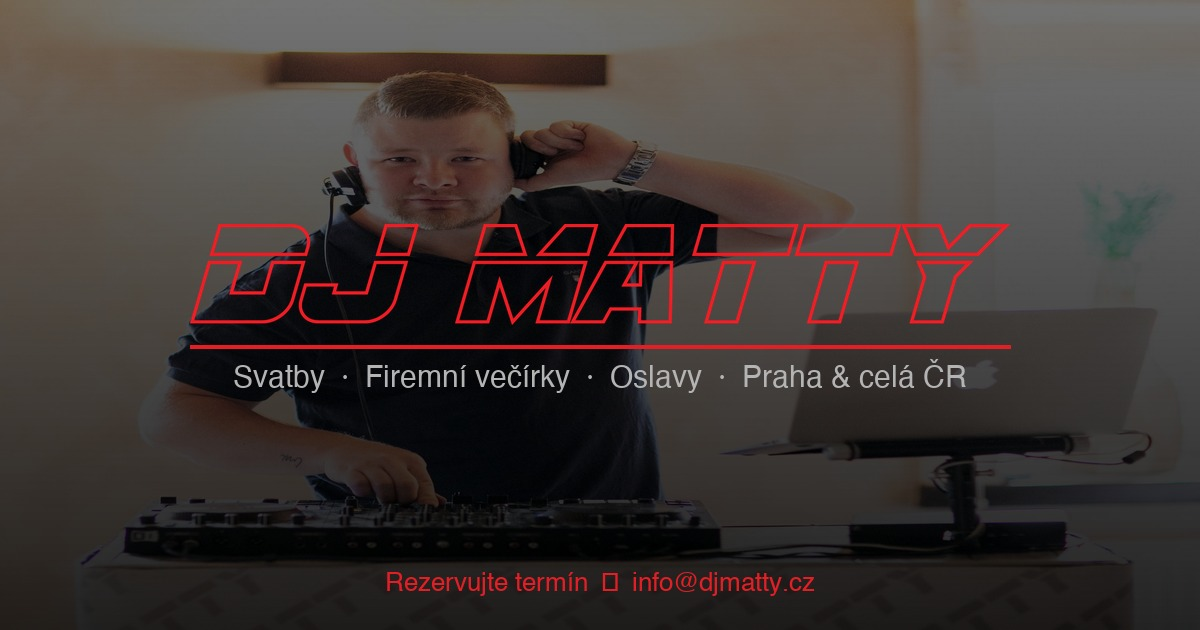
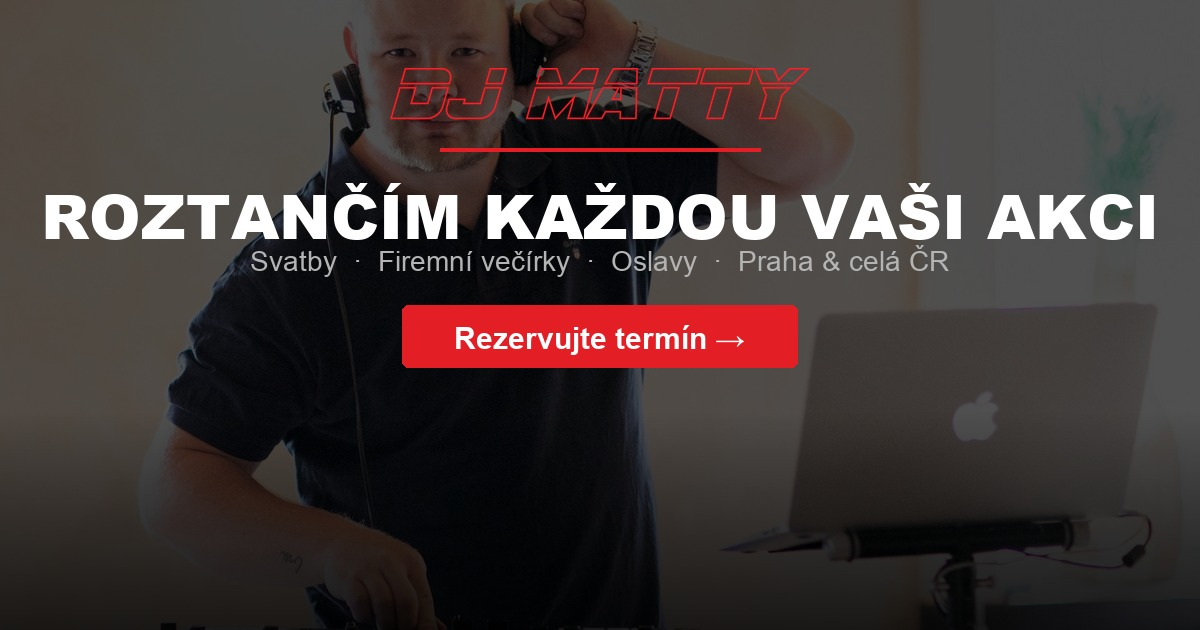
Improve OG image with headline and CTA, extend title to 53 chars

diff --git a/index.html b/index.html
@@ -3,13 +3,13 @@
 <head>
   <meta charset="UTF-8" />
   <meta name="viewport" content="width=device-width, initial-scale=1.0" />
-  <title>DJ MATTY — Profesionální DJ Praha &amp; celá ČR</title>
+  <title>DJ MATTY — Profesionální DJ | Svatby, Večírky, Praha</title>
   <meta name="description" content="Multižánrový DJ s více než 14 lety zkušeností. Specializuji se na svatby, firemní večírky a narozeninové oslavy. Napište mi a rezervujte termín!" />
 
   <!-- Open Graph / Facebook / WhatsApp -->
   <meta property="og:type" content="website" />
   <meta property="og:url" content="https://nocode23.github.io/djmatty/" />
-  <meta property="og:title" content="DJ MATTY — Profesionální DJ Praha & celá ČR" />
+  <meta property="og:title" content="DJ MATTY — Profesionální DJ | Svatby, Večírky, Praha" />
   <meta property="og:description" content="Multižánrový DJ s více než 14 lety zkušeností. Specializuji se na svatby, firemní večírky a narozeninové oslavy. Napište mi a rezervujte termín!" />
   <meta property="og:image" content="https://nocode23.github.io/djmatty/images/og-image.jpg" />
   <meta property="og:image:width" content="1200" />
@@ -18,7 +18,7 @@
 
   <!-- Twitter / iMessage -->
   <meta name="twitter:card" content="summary_large_image" />
-  <meta name="twitter:title" content="DJ MATTY — Profesionální DJ Praha & celá ČR" />
+  <meta name="twitter:title" content="DJ MATTY — Profesionální DJ | Svatby, Večírky, Praha" />
   <meta name="twitter:description" content="Multižánrový DJ s více než 14 lety zkušeností. Specializuji se na svatby, firemní večírky a narozeninové oslavy. Napište mi a rezervujte termín!" />
   <meta name="twitter:image" content="https://nocode23.github.io/djmatty/images/og-image.jpg" />
   <link rel="preconnect" href="https://fonts.googleapis.com" />
